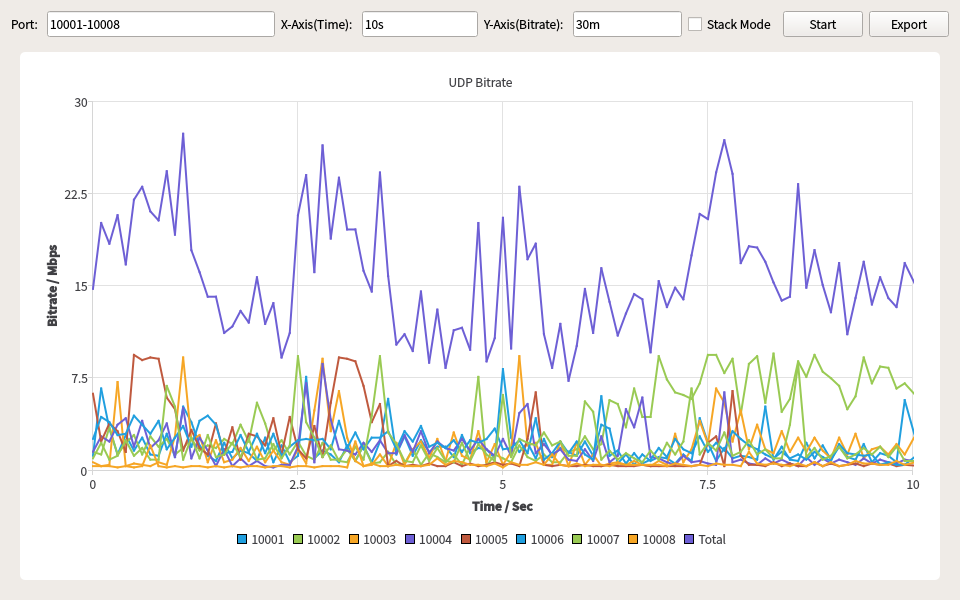
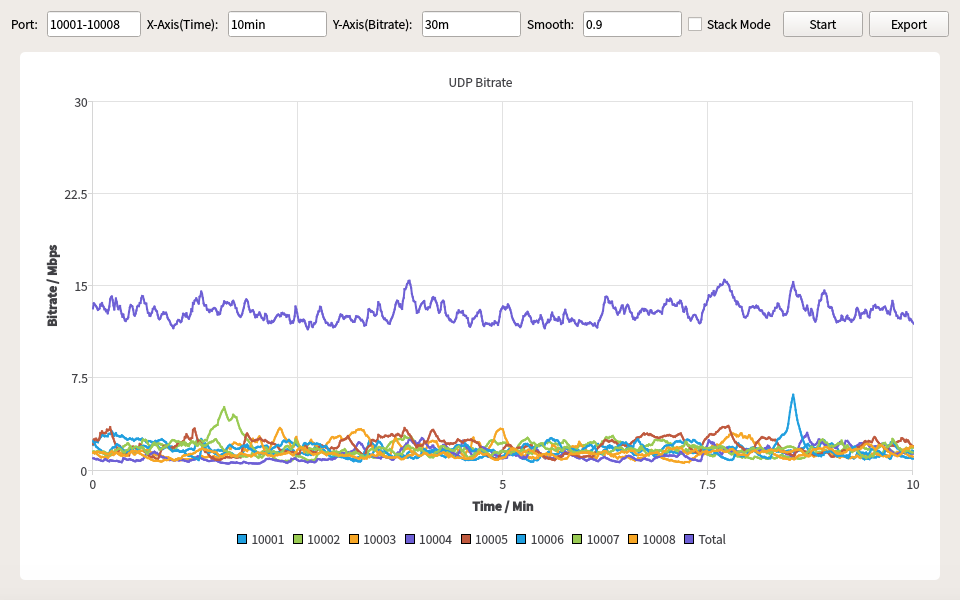
Add smooth

diff --git a/udpbitrate.py b/udpbitrate.py
@@ -20,13 +20,16 @@ class UDPBitrate(QWidget):
         self.portLayout = QHBoxLayout()
         self.axisxLayout = QHBoxLayout()
         self.axisyLayout = QHBoxLayout()
+        self.smoothLayout = QHBoxLayout()
         self.btnsLayout = QHBoxLayout()
         self.lblPort = QLabel("Port: ")
         self.lblAxisX = QLabel("X-Axis(Time): ")
         self.lblAxisY = QLabel("Y-Axis(Bitrate): ")
+        self.lblSmooth = QLabel("Smooth: ")
         self.txtPort = QLineEdit()
         self.txtAxisX = QLineEdit()
         self.txtAxisY = QLineEdit()
+        self.txtSmooth = QLineEdit()
         self.chkMode = QCheckBox("Stack Mode")
         self.btnStart = QPushButton("Start")
         self.btnExport = QPushButton("Export")
@@ -42,14 +45,18 @@ class UDPBitrate(QWidget):
         self.axisyLayout.addWidget(self.lblAxisY)
         self.axisyLayout.addWidget(self.txtAxisY)
 
+        self.smoothLayout.addWidget(self.lblSmooth)
+        self.smoothLayout.addWidget(self.txtSmooth)
+
         self.btnsLayout.addWidget(self.chkMode)
         self.btnsLayout.addWidget(self.btnStart)
         self.btnsLayout.addWidget(self.btnExport)
 
-        self.headerLayout.addLayout(self.portLayout, 0, 0, 1, 4)
-        self.headerLayout.addLayout(self.axisxLayout, 0, 4, 1, 3)
-        self.headerLayout.addLayout(self.axisyLayout, 0, 7, 1, 3)
-        self.headerLayout.addLayout(self.btnsLayout, 0, 10, 1, 2)
+        self.headerLayout.addLayout(self.portLayout, 0, 0, 1, 3)
+        self.headerLayout.addLayout(self.axisxLayout, 0, 3, 1, 2)
+        self.headerLayout.addLayout(self.axisyLayout, 0, 5, 1, 2)
+        self.headerLayout.addLayout(self.smoothLayout, 0, 7, 1, 2)
+        self.headerLayout.addLayout(self.btnsLayout, 0, 9, 1, 2)
 
         self.chart = QChart()
         self.chartview = QChartView(self.chart)
@@ -71,14 +78,16 @@ class UDPBitrate(QWidget):
 
         self.ports = []
         self.udpthreads = []
+        self.smooth_alpha = 0.0
 
         if os.path.exists("udpbitrate.conf"):
             with open("udpbitrate.conf", "r") as fp:
                 try:
                     json_data = json.load(fp)
                     self.txtPort.setText(json_data.get("port",""))
-                    self.txtAxisX.setText(json_data.get("x-axis",""))
-                    self.txtAxisY.setText(json_data.get("y-axis",""))
+                    self.txtAxisX.setText(json_data.get("x-axis","1000s"))
+                    self.txtAxisY.setText(json_data.get("y-axis","10m"))
+                    self.txtSmooth.setText(json_data.get("smooth","0"))
                     self.chkMode.setChecked(json_data.get("mode",False))
                 finally:
                     pass
@@ -95,13 +104,16 @@ class UDPBitrate(QWidget):
             self.txtPort.setEnabled(False)
             self.txtAxisX.setEnabled(False)
             self.txtAxisY.setEnabled(False)
+            self.txtSmooth.setEnabled(False)
             self.parse_port()
             self.parse_axis_x()
             self.parse_axis_y()
+            self.parse_smooth()
             self.start_record()
             json_data = {"port":self.txtPort.text(),
                          "x-axis":self.txtAxisX.text(),
                          "y-axis":self.txtAxisY.text(),
+                         "smooth":self.txtSmooth.text(),
                          "mode":self.chkMode.isChecked()}
             with open("udpbitrate.conf", "w") as fp:
                 json.dump(json_data, fp)
@@ -111,6 +123,7 @@ class UDPBitrate(QWidget):
             self.txtPort.setEnabled(True)
             self.txtAxisX.setEnabled(True)
             self.txtAxisY.setEnabled(True)
+            self.txtSmooth.setEnabled(True)
             self.stop_record()
 
     def onExportClick(self):
@@ -141,9 +154,13 @@ class UDPBitrate(QWidget):
 
     def add_point(self, val, series):
         points = series.pointsVector()
-        if len(points) <= self.axis_x_resolution:
+        if len(points) == 0:
+            points.append(QPointF(len(points) * self.axis_x_step / self.axis_x_unit_scale[self.axis_x_unit], val))
+        elif len(points) <= self.axis_x_resolution:
+            val = self.smooth_alpha * points[-1].y() + (1 - self.smooth_alpha) * val
             points.append(QPointF(len(points) * self.axis_x_step / self.axis_x_unit_scale[self.axis_x_unit], val))
         else:
+            val = self.smooth_alpha * points[-1].y() + (1 - self.smooth_alpha) * val
             for i in range(len(points)-1):
                 points[i] = QPointF(i * self.axis_x_step / self.axis_x_unit_scale[self.axis_x_unit], points[i+1].y())
             points[-1] = QPointF(len(points) * self.axis_x_step / self.axis_x_unit_scale[self.axis_x_unit], val)
@@ -210,6 +227,15 @@ class UDPBitrate(QWidget):
                     self.axis_y_unit = 2
                 elif m.group(2) == "g":
                     self.axis_y_unit = 3
+
+    def parse_smooth(self):
+        self.smooth_alpha = 0.0
+        s = self.txtSmooth.text()
+        p = re.compile('^(\d+(?:\.\d+)?)\s?$')
+        m = p.match(s)
+        if m:
+            self.smooth_alpha = float(m.group(1))
+        self.smooth_alpha = self.smooth_alpha if self.smooth_alpha < 0.9999 else 0.9999
 
     def start_record(self):
         self.chart.removeAllSeries()

diff --git a/README.md b/README.md
@@ -34,6 +34,10 @@ Configuration Description:
     - Specifying the full range of Y axis.
     - Example: 1000k *or* 10m
 
+- **Smooth(0~0.9999)**
+    - Specifying the coefficient of EMA(Exponential Moving Average) to smooth curves.
+    - Example: 0.9
+
 - **Stack Mode**
     - Specifying to use normal mode or stack mode.
     - **Normal**: Display the bitrates of each port independently, and the sum of the bitrates.
